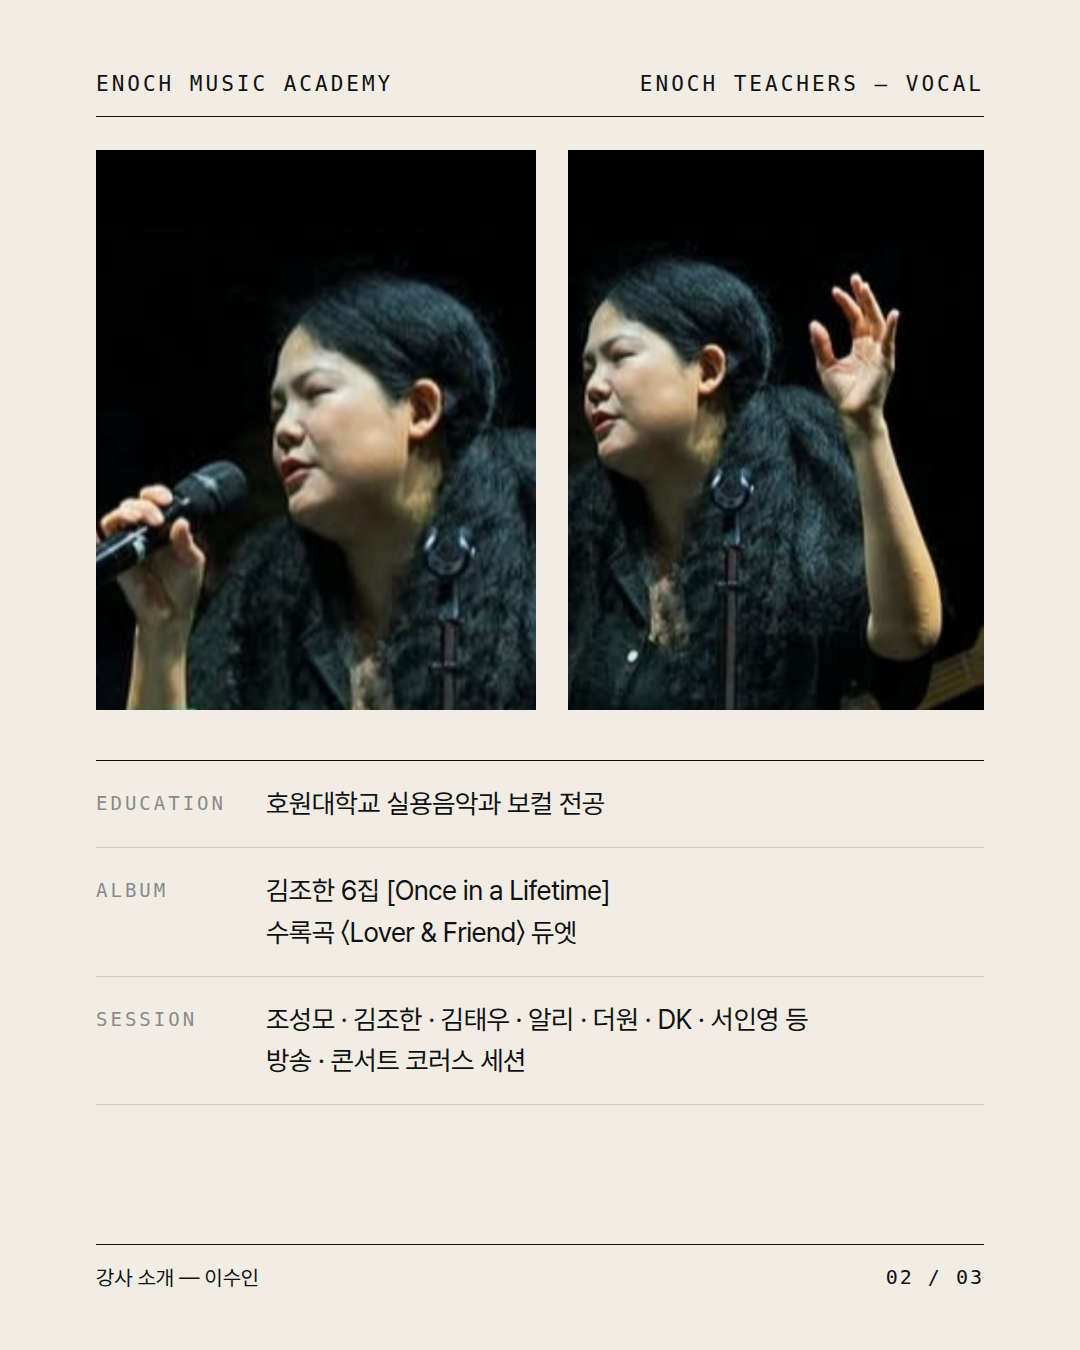
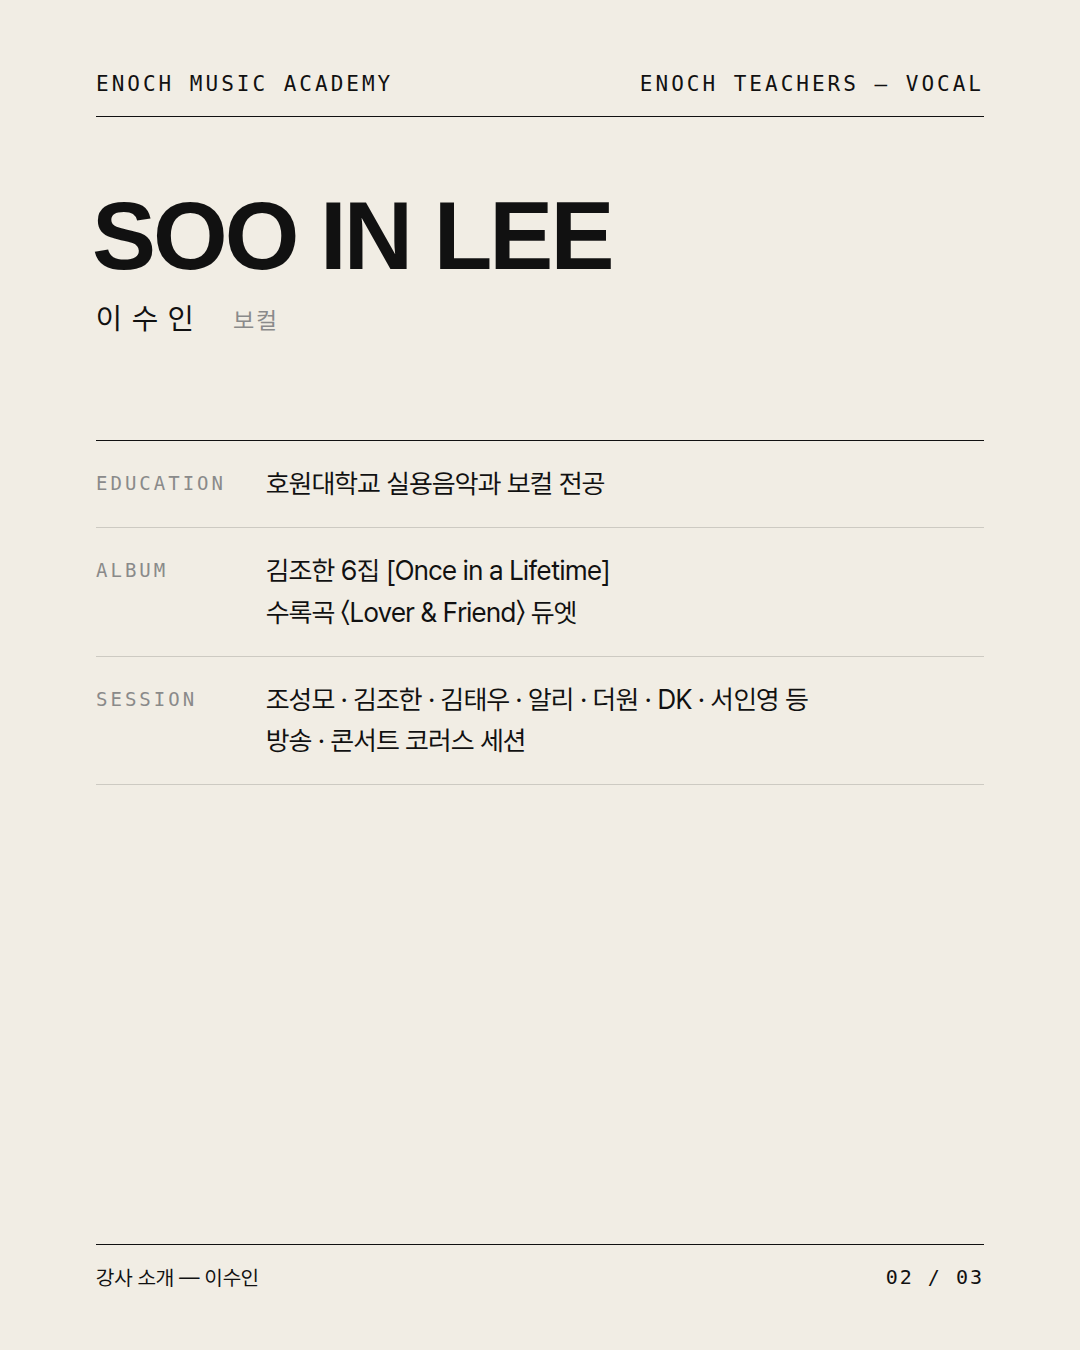
강사 소개 이수인 블로그: 2·3장 사진 삭제
Claude-Session: https://claude.ai/code/session_01HGbZvgMeYrbU7mY8bwfjyb

diff --git a/output/강사소개_이수인/blog.html b/output/강사소개_이수인/blog.html
@@ -25,9 +25,9 @@
 <!-- 2: 클로즈업 + 약력 -->
 <section class="s" id="b2">
   <div class="hd"><span>ENOCH MUSIC ACADEMY</span><span>ENOCH TEACHERS — VOCAL</span></div>
-  <div class="ph" style="left:96px;width:440px;top:150px;height:560px;background-size:260% auto;background-position:42% 17%"></div>
-  <div class="ph" style="left:568px;right:96px;top:150px;height:560px;background-size:230% auto;background-position:70% 18%"></div>
-  <div style="position:absolute;left:96px;right:96px;top:760px;border-top:1.5px solid var(--bk)">
+  <div class="en" style="position:absolute;left:92px;top:190px;font-size:96px">SOO IN LEE</div>
+  <div style="position:absolute;left:96px;top:300px;font-size:30px;letter-spacing:10px">이수인 <span style="color:var(--g);letter-spacing:2px;font-size:24px;margin-left:12px">보컬</span></div>
+  <div style="position:absolute;left:96px;right:96px;top:440px;border-top:1.5px solid var(--bk)">
     <div class="row"><span class="k">Education</span><span>호원대학교 실용음악과 보컬 전공</span></div>
     <div class="row"><span class="k">Album</span><span>김조한 6집 [Once in a Lifetime]<br>수록곡 〈Lover &amp; Friend〉 듀엣</span></div>
     <div class="row"><span class="k">Session</span><span>조성모 · 김조한 · 김태우 · 알리 · 더원 · DK · 서인영 등<br>방송 · 콘서트 코러스 세션</span></div>
@@ -37,11 +37,8 @@
 <!-- 3: 세로 세 컷 + 마무리 -->
 <section class="s" id="b3">
   <div class="hd"><span>ENOCH MUSIC ACADEMY</span><span>THE ENOCH WAY</span></div>
-  <div class="ph" style="left:96px;width:280px;top:150px;height:620px;background-size:300% auto;background-position:40% 17%"></div>
-  <div class="ph" style="left:400px;width:280px;top:150px;height:620px;background-size:180% auto;background-position:45% 45%"></div>
-  <div class="ph" style="left:704px;width:280px;top:150px;height:620px;background-size:260% auto;background-position:75% 22%"></div>
-  <div style="position:absolute;left:92px;top:830px;font-size:66px;font-weight:700;letter-spacing:-3px;line-height:1.2">여러 목소리와 맞춰 온 귀,<br><span style="font-weight:300">1:1로.</span></div>
-  <div style="position:absolute;left:96px;right:96px;top:1020px;font-size:27px;line-height:1.7;color:var(--b)">같은 곡도, 사람마다 다르게 가르칩니다.<br>ENOCH 보컬 레슨은 입시 · 취미 · 성인 · 전문, 모든 과정이 1:1입니다.</div>
+  <div style="position:absolute;left:92px;top:300px;font-size:76px;font-weight:700;letter-spacing:-3px;line-height:1.2">여러 목소리와 맞춰 온 귀,<br><span style="font-weight:300">1:1로.</span></div>
+  <div style="position:absolute;left:96px;right:96px;top:560px;font-size:29px;line-height:1.75;color:var(--b)">같은 곡도, 사람마다 다르게 가르칩니다.<br>ENOCH 보컬 레슨은 입시 · 취미 · 성인 · 전문, 모든 과정이 1:1입니다.</div>
   <div class="ft"><span>에녹실용음악학원 시흥점 · 경기도 시흥시 은행로 157 2층</span><span>010 3949 3666</span></div>
 </section>
 </body></html>

diff --git a/output/강사소개_이수인/review.md b/output/강사소개_이수인/review.md
@@ -3,4 +3,4 @@
 - 사진: 원장님 제공 무대 사진(`images/강사/이수인_01.jpg`), 컬러.
 - 약력 3줄이라 상세 약력 장 없이 표지에 모두 넣음.
 - 앨범명 표기 "Once in a Lifetime", 곡명 "Lover & Friend"는 원장님 문구 기준 — 정식 표기 확인 필요.
-- 블로그용 blog_01–03 (1080×1350, 아이보리). 사진이 한 장뿐이라 같은 사진을 여러 크기로 잘라 씀. 클로즈업은 원본 해상도가 낮아 조금 흐림 — 추가 사진 받으면 교체.
+- 블로그용 blog_01–03 (1080×1350, 아이보리). 사진은 1장에만, 2·3장은 글자만 (원장님 요청 2026-10-13).
